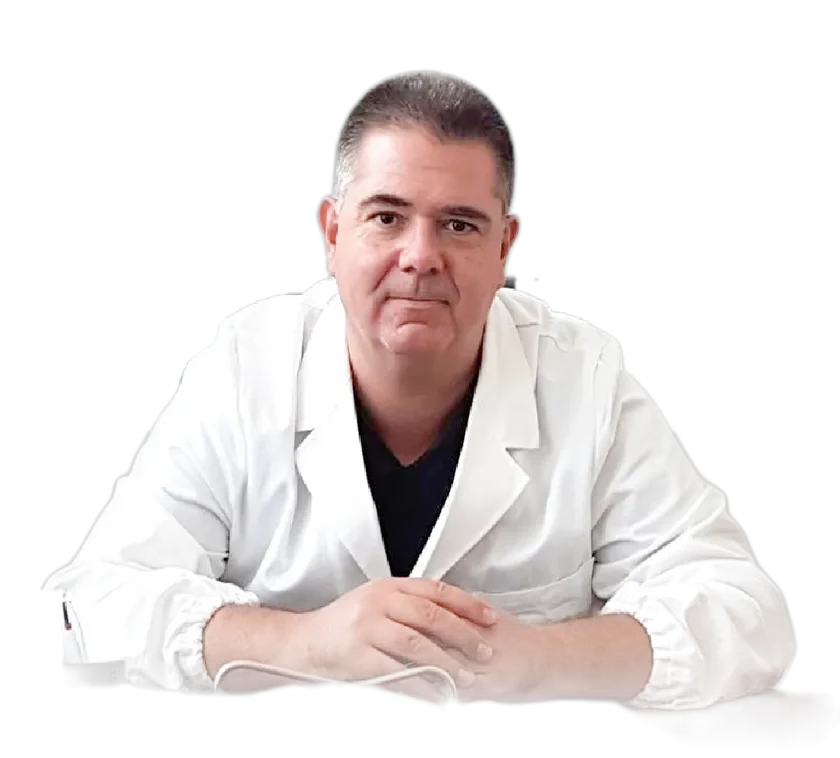
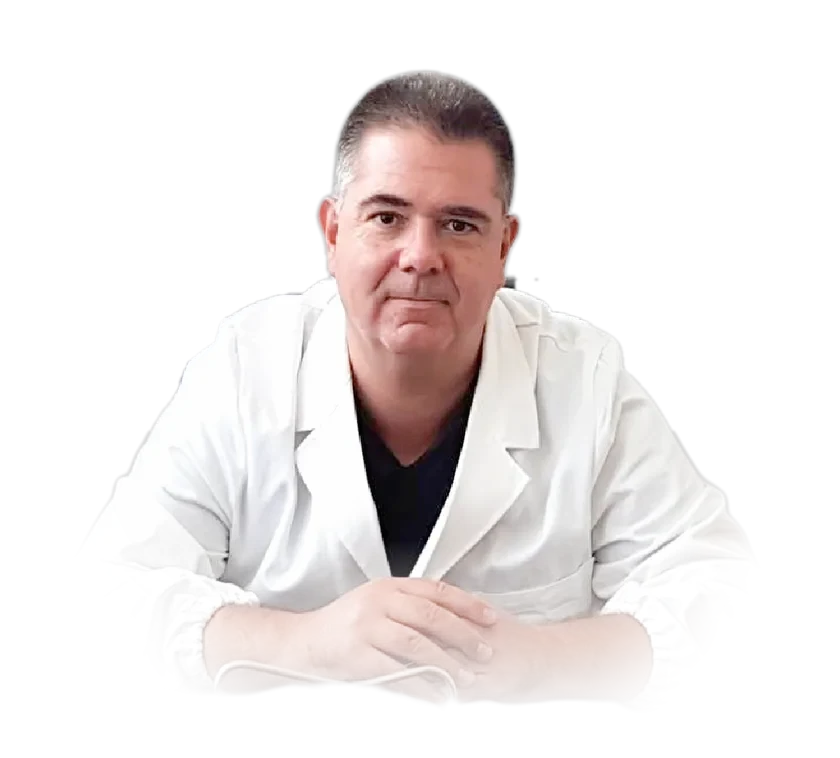
Ritratto: bordi sfumati (niente taglio netto al gomito), come nella proposta; barra Chiama non compare più sopra l'hero su mobile
Claude-Session: https://claude.ai/code/session_01KutUNZmbXa2PRUqu11jtbw

Changed region(s): [[0.0929, 0.6675, 0.9595, 0.9406], [0.0619, 0.7889, 0.0929, 0.8496], [0.0619, 0.7282, 0.0929, 0.7586]]

diff --git a/assets/site.js b/assets/site.js
@@ -55,7 +55,9 @@
   if (hero && 'IntersectionObserver' in window) {
     doc.classList.add('has-hero');
     new IntersectionObserver(function (entries) {
-      doc.classList.toggle('past-hero', !entries[0].isIntersecting);
+      var e = entries[0];
+      // "passato" solo se i pulsanti dell'hero sono usciti dall'alto, non se sono ancora sotto
+      doc.classList.toggle('past-hero', !e.isIntersecting && e.boundingClientRect.top < 0);
     }).observe(hero);
   }
 
